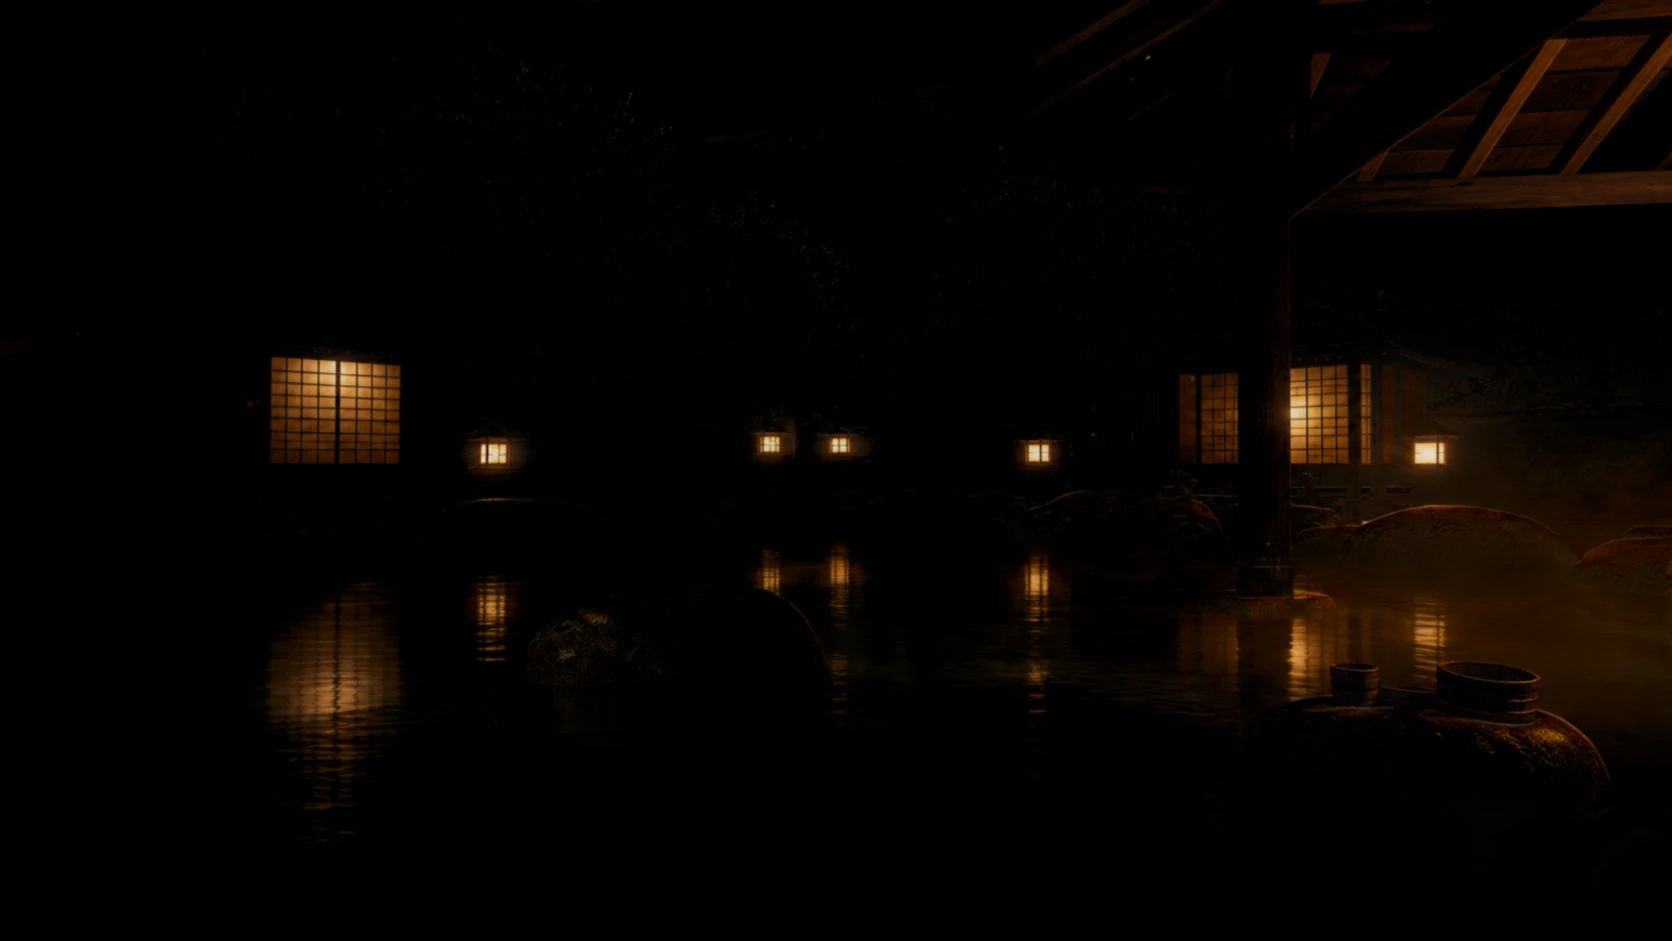
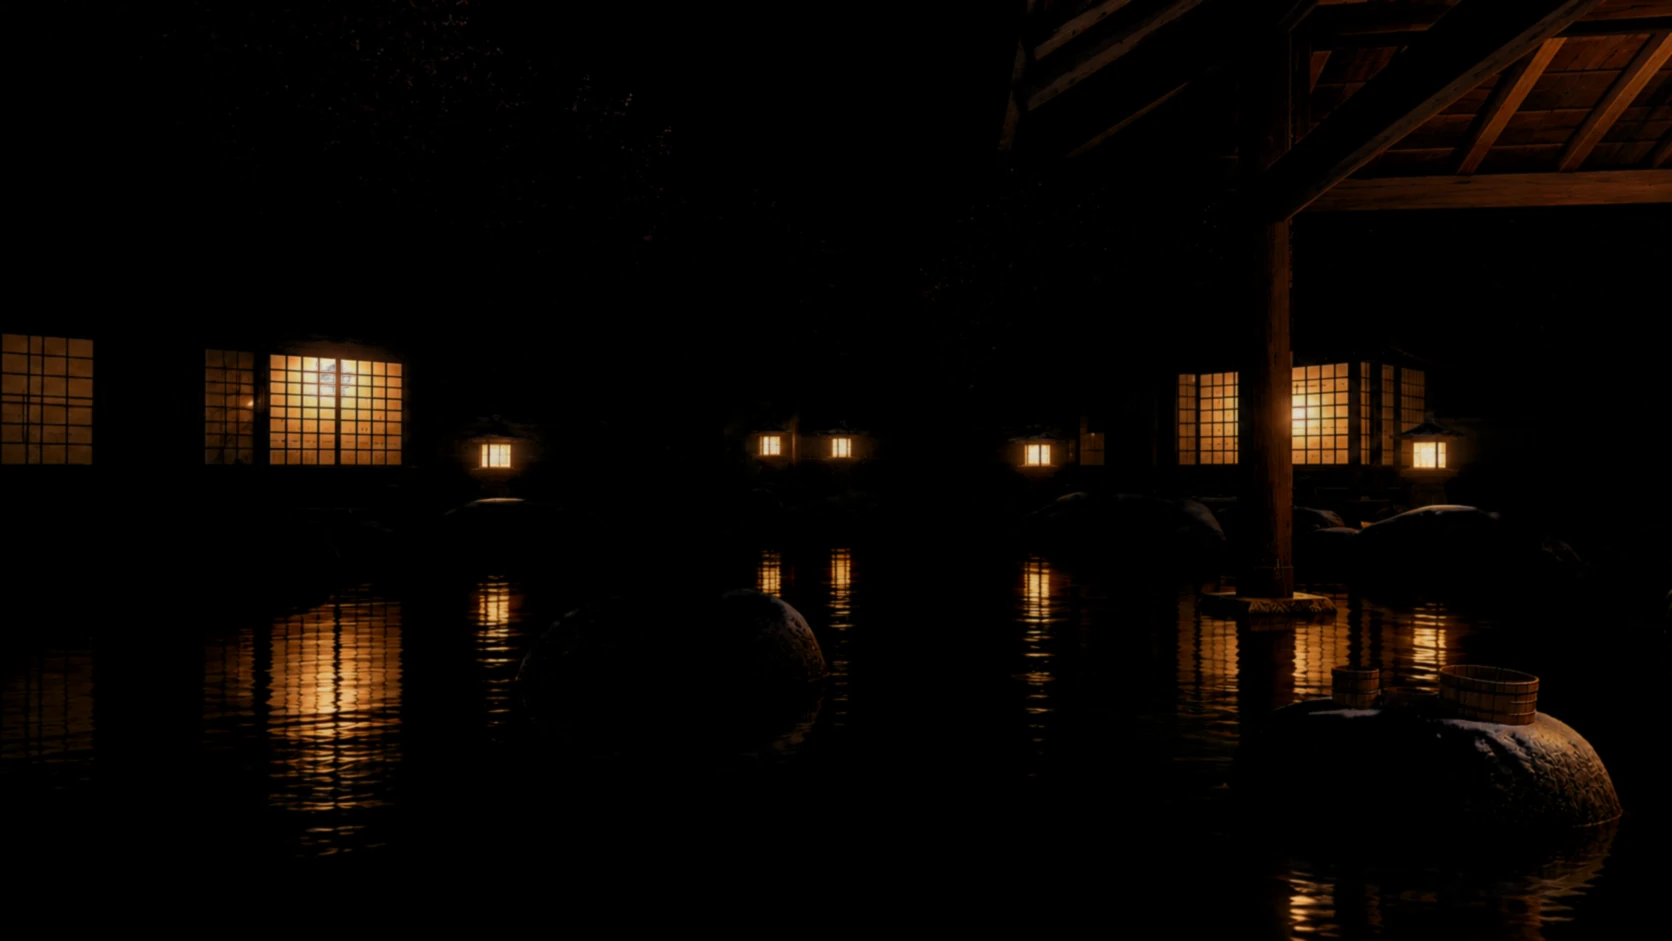
v2 cont 16

diff --git a/app/components/pages/Tracker/theme-scene/onsen.ts b/app/components/pages/Tracker/theme-scene/onsen.ts
@@ -3,20 +3,23 @@ import { shaderScene } from './scene';
 import type { SceneMaker } from './scene';
 
 // Onsen: an open-air hot spring on a winter night, painted (public/themes/onsen): snowy rocks round the pool, cherry
-// trees and a mountain behind, stone lanterns and shōji windows lit along the far side. The picture holds still; over
-// it the lights breathe and flicker each on its own (the picture lit, less a share of its light: light.webp, the lit
-// picture less its unlit twin), the water stirs their reflections, steam drifts up off it and snow falls through
+// trees and a mountain behind, stone lanterns and shōji windows lit along the far side. The painting holds still; the
+// scene lives in it: the pool's surface moves in perspective, passing between three states of its water and bending
+// what it reflects, each snowflake that lands on it leaving a ring; steam rises off it in sheets, near and far, lit by
+// the lanterns where it passes them; snow falls through all of it at every depth, behind the gazebo's pillar and the
+// rocks as well as in front; one wind moves the snow and the steam together; the lights flicker each on its own
 //
-// u_picture0: the picture, lit; u_picture1: its light alone; u_picture2: where the water is (water.png)
+// u_picture0 the painting, its air clear; u_picture1, 2 the same pool in two other states of ripple; u_picture3 the
+// lights alone (the lit painting less its unlit twin); u_picture4 maps: R where the water is, G depth (1 nearest),
+// B the lights' glow, wide and soft; u_picture5 steam on black, its sheet rising from the bottom
 const FRAGMENT = `
 float hash (vec2 p) { return fract(sin(dot(p, vec2(127.1, 311.7))) * 43758.5453); }
 float noise (vec2 p) {
   vec2 i = floor(p); vec2 f = fract(p); f = f * f * (3.0 - 2.0 * f);
   return mix(mix(hash(i), hash(i + vec2(1.0, 0.0)), f.x), mix(hash(i + vec2(0.0, 1.0)), hash(i + vec2(1.0, 1.0)), f.x), f.y);
 }
-float fbm (vec2 p) { float v = 0.0; float a = 0.5; for (int i = 0; i < 4; i++) { v += a * noise(p); p *= 2.03; a *= 0.5; } return v; }
 
-// one light across the picture (centred at cx, as wide as w): how bright it burns now, a little under full as a flame
+// one light across the painting (centred at cx, as wide as w): how bright it burns now, a little under full as a flame
 // gutters (by up to amp), weighted by how near x is to it
 void source (float x, float cx, float w, float amp, float speed, float seed, float t, inout vec2 acc) {
   float k = exp(-pow((x - cx) / w, 2.0));
@@ -38,22 +41,69 @@ float flicker (float x, float t) {
   return acc.y > 1e-4 ? acc.x / acc.y : 1.0;
 }
 
-// snow: three layers of flakes, the far ones small, slow and faint, the near larger; each drifting as it falls
-float snow (vec2 px, float h, float t) {
+// the pool's surface on its own plane (P: across and away, in the water's own units): long swells crossing, a finer
+// chop over them, all drifting with the wind
+float swell (vec2 p, float t, float wind) {
+  return noise(p * vec2(0.9, 1.6) + vec2(t * 0.12 + wind * t * 0.05, -t * 0.32)) * 0.55
+    + noise(p * vec2(2.1, 2.6) + vec2(-t * 0.22, t * 0.18)) * 0.3
+    + noise(p * vec2(4.7, 5.3) + vec2(t * 0.45, -t * 0.4)) * 0.15;
+}
+
+// where a snowflake landed: a ring spreading from it and dying away, its slope (on P) to bend the surface by
+vec2 rings (vec2 p, float t) {
+  vec2 cell = floor(p);
+  float r = hash(cell + 5.0);
+  float period = 3.0 + 7.0 * r;
+  float age = fract(t / period + r * 7.0) * period;
+  vec2 at = 0.3 + 0.4 * vec2(hash(cell + 1.0), hash(cell + 2.0));
+  vec2 d = p - cell - at;
+  float dist = length(d) + 1e-4;
+  float w = (dist - age * 0.16) * 38.0;
+  float env = exp(-age * 1.3) * smoothstep(0.45, 0.25, dist);
+  return d / dist * sin(clamp(w, -9.42, 9.42)) * exp(-w * w / 24.0) * env;
+}
+
+// a sheet of steam rising from bottom (on the painting, 0 top to 1 bottom) up to height, stood at depth: shown only
+// in front of what's farther off than it. Its wisps rise and curl (the sheet's own shapes pulled upward through a
+// rising noise) and drift with the wind; its texture mirrored end to end, so it repeats with no seam
+float steamSheet (vec2 iuv, float bottom, float height, float across, float seed, float t, float wind, float depth, float at) {
+  float y = (bottom - iuv.y) / height;
+  if (y < -0.05 || y > 1.0) {
+    return 0.0;
+  }
+  vec2 q = vec2(iuv.x * across + seed + t * (0.006 + 0.02 * wind), y);
+  vec2 curl = vec2(noise(q * vec2(3.0, 2.5) + vec2(seed, -t * 0.22)), noise(q * vec2(2.5, 3.0) + vec2(-seed, -t * 0.18))) - 0.5;
+  q += curl * vec2(0.12, 0.1);
+  float x = 1.0 - abs(fract(q.x * 0.5) * 2.0 - 1.0);
+  float s = texture2D(u_picture5, vec2(x, clamp(q.y, 0.0, 1.0))).r;
+  // breathing: the sheet thickens and thins along its length, slowly
+  s *= 0.65 + 0.7 * noise(vec2(iuv.x * 3.0 + seed - t * 0.03, t * 0.05 + seed));
+  return s * smoothstep(-0.05, 0.12, y) * smoothstep(at + 0.06, at - 0.02, depth);
+}
+
+// snow: three layers of flakes, far ones small, slow and faint, near ones larger; each at its own depth, so hidden
+// behind whatever stands nearer (the pillar, the rocks, the pool's own surface where it's fallen in). All drift with
+// the wind
+float snow (vec2 px, float h, float t, float wind, float depth) {
   float a = 0.0;
   for (int l = 0; l < 3; l++) {
     float fl = float(l) / 2.0;
+    float at = mix(0.3, 0.97, fl);
+    if (depth > at + 0.02) {
+      continue;
+    }
     float cells = mix(22.0, 8.0, fl);
     vec2 p = px / h * cells;
-    p.y += t * mix(0.022, 0.06, fl) * cells;
+    float fall = t * mix(0.022, 0.06, fl) * cells;
+    p.y += fall;
+    p.x -= wind * fall * 0.6;
     p.x += sin(t * 0.25 + p.y * 0.35 + fl * 4.0) * 0.35;
     vec2 c = floor(p);
     float r = hash(c + fl * 17.0);
     if (r < mix(0.5, 0.32, fl)) {
-      vec2 at = vec2(hash(c + 3.1), hash(c + 7.7)) * 0.8 + 0.1;
-      at.x += sin(t * (0.4 + r) + r * 6.28) * 0.08;
-      float d = length(fract(p) - at) / cells * h;
-      // soft flakes, not points of light: each falls off from its middle
+      vec2 o = vec2(hash(c + 3.1), hash(c + 7.7)) * 0.8 + 0.1;
+      o.x += sin(t * (0.4 + r) + r * 6.28) * 0.08;
+      float d = length(fract(p) - o) / cells * h;
       float radius = mix(1.2, 3.4, fl) * u_dpr;
       a += smoothstep(radius, 0.0, d) * mix(0.4, 0.75, fl);
     }
@@ -68,42 +118,78 @@ void main () {
   }
   float t = u_time;
   vec2 uv = gl_FragCoord.xy / u_res;
-  // the same point on the picture, 0–1 from its top left
+  // the same point on the painting, 0–1 from its top left
   vec2 iuv = u_crop.xy + vec2(uv.x, 1.0 - uv.y) * u_crop.zw;
+  vec3 maps = texture2D(u_picture4, uv).rgb;
+  float water = maps.r;
+  float depth = maps.g;
+  float glow = maps.b;
+  // one wind for the snow and the steam: mostly a light breeze, now and then a slow gust
+  float wind = 0.2 + 0.8 * smoothstep(0.55, 0.9, noise(vec2(t * 0.05, 3.0)));
 
-  // the water stirring: bands across it, close together far off and wider nearer, pulling what it reflects side to
-  // side; still where rocks stand in it
-  float water = texture2D(u_picture2, uv).r;
-  float near = smoothstep(0.58, 1.0, iuv.y);
-  vec2 q = vec2(iuv.x * mix(16.0, 5.0, near), iuv.y * mix(170.0, 40.0, near) - t * 0.8);
-  float n1 = noise(q) - 0.5;
-  float n2 = noise(q * 1.9 + 3.1) - 0.5;
-  vec2 stir = vec2(n1 + 0.5 * n2, n2 * 0.25) * mix(0.0012, 0.005, near) * water;
+  // the pool: its surface on its own plane, nearer water larger, so its swells widen toward you
+  float near = smoothstep(0.57, 1.0, iuv.y);
+  vec2 stir = vec2(0.0);
+  vec2 slope = vec2(0.0);
+  if (water > 0.0) {
+    float z = 1.0 / max(iuv.y - 0.47, 0.03);
+    vec2 P = vec2((iuv.x - 0.5) * z * 1.6, z * 2.0);
+    float h0 = swell(P, t, wind);
+    slope = vec2(swell(P + vec2(0.04, 0.0), t, wind) - h0, swell(P + vec2(0.0, 0.04), t, wind) - h0) / 0.04;
+    slope += rings(P * 1.2, t) * 2.2;
+    stir = vec2(slope.x, slope.y * 0.4) * mix(0.0016, 0.0075, near) * water;
+  }
 
-  vec3 col = texture2D(u_picture0, uv + stir).rgb;
-  vec3 light = texture2D(u_picture1, uv + stir).rgb;
-  col += light * (flicker(iuv.x, t) - 1.0);
-  // and a glint now and then where it catches the light
-  col += light * water * pow(noise(q * vec2(2.0, 0.6) + t * 0.3), 6.0) * 0.6;
+  vec3 calm = texture2D(u_picture0, uv + stir).rgb;
+  vec3 col = calm;
+  if (water > 0.0) {
+    // the water passing between its states: patches of it calm, patches stirred, drifting
+    float k1 = smoothstep(0.3, 0.75, noise(iuv * vec2(4.0, 9.0) + vec2(t * 0.04, -t * 0.07)));
+    float k2 = smoothstep(0.35, 0.8, noise(iuv * vec2(5.0, 10.0) + vec2(-t * 0.05, t * 0.04) + 7.0));
+    vec3 w = mix(calm, texture2D(u_picture1, uv + stir * 1.3).rgb, k1);
+    w = mix(w, texture2D(u_picture2, uv + stir * 1.3).rgb, k2 * (1.0 - 0.5 * k1));
+    col = mix(calm, w, water);
+  }
+  vec3 light = texture2D(u_picture3, uv + stir).rgb;
+  float flame = flicker(iuv.x, t);
+  col += light * (flame - 1.0);
+  // the surface catching the lanterns where it tilts toward you
+  vec3 warm = vec3(1.0, 0.72, 0.42);
+  col += warm * glow * water * pow(clamp(0.5 - slope.y * 0.6, 0.0, 1.0), 6.0) * 0.35 * flame;
 
-  // steam rising off the pool, thickest along the far shore, warmed where the lanterns light it
-  vec2 sp = vec2(iuv.x * 4.0 + t * 0.012, iuv.y * 7.0 + t * 0.06);
-  sp += vec2(noise(sp * 0.6 + t * 0.05), noise(sp * 0.6 - t * 0.04)) * 0.8;
-  float band = smoothstep(0.46, 0.6, iuv.y) * (1.0 - 0.6 * smoothstep(0.64, 1.0, iuv.y));
-  float steam = smoothstep(0.42, 0.85, fbm(sp)) * band * 0.2;
-  col = mix(col, vec3(0.5, 0.56, 0.66) + light * 1.4, steam);
+  // the sky: the clouds' moonlit edges brightening and dimming as they pass
+  float sky = (1.0 - smoothstep(0.02, 0.08, depth)) * (1.0 - smoothstep(0.3, 0.45, iuv.y));
+  if (sky > 0.0) {
+    float c = noise(iuv * vec2(3.0, 7.0) + vec2(t * 0.012, 0.0)) * 0.6 + noise(iuv * vec2(7.0, 14.0) + vec2(t * 0.02, 1.0)) * 0.4;
+    col *= mix(1.0, 0.8 + 0.4 * c, sky);
+  }
 
-  // and the snow over it all, lit warm near a light
-  float s = snow(gl_FragCoord.xy, u_res.y, t);
-  col = mix(col, vec3(0.86, 0.9, 0.98) + light * 1.2, s);
+  // steam: a sheet off the far water, one mid-pool and one close by; the far behind the pillar and the near rocks
+  vec3 vapour = vec3(0.42, 0.47, 0.56) + warm * glow * 0.9 + light * 0.6;
+  float far = steamSheet(iuv, 0.66, 0.3, 1.3, 0.0, t, wind, depth, 0.62);
+  float mid = steamSheet(iuv, 0.9, 0.38, 0.95, 3.7, t, wind, depth, 0.8);
+  col = mix(col, vapour, clamp(far * 0.85 + mid * 0.6, 0.0, 0.85));
+
+  // the snow, among it all, lit warm near a light
+  float s = snow(gl_FragCoord.xy, u_res.y, t, wind, depth);
+  col = mix(col, vec3(0.82, 0.87, 0.96) + light * 1.2 + warm * glow * 0.5, s);
+
+  // and the nearest steam, thin, in front of everything
+  float close = steamSheet(iuv, 1.12, 0.45, 0.7, 8.1, t, wind, depth, 1.1);
+  col = mix(col, vapour, close * 0.4);
 
   gl_FragColor = vec4(col, 1.0);
 }
 `;
 
+// the top of the painting kept in view as a wide window crops it, for its sky and mountain over the boxes
+const ANCHOR: [number, number] = [0.5, 0.3];
+
 export const onsenScene: SceneMaker = (canvas) => shaderScene(canvas, FRAGMENT, undefined, [
-  // the lanterns and the near water kept in view as a wide window crops its top and bottom
-  { src: '/themes/onsen/scene.webp', anchor: [0.5, 0.62] },
-  { src: '/themes/onsen/light.webp', anchor: [0.5, 0.62] },
-  { src: '/themes/onsen/water.png', anchor: [0.5, 0.62] },
+  { src: '/themes/onsen/scene.webp', anchor: ANCHOR },
+  { src: '/themes/onsen/ripple-1.webp', anchor: ANCHOR },
+  { src: '/themes/onsen/ripple-2.webp', anchor: ANCHOR },
+  { src: '/themes/onsen/light.webp', anchor: ANCHOR },
+  { src: '/themes/onsen/maps.webp', anchor: ANCHOR },
+  { src: '/themes/onsen/steam.webp', anchor: ANCHOR },
 ]);

diff --git a/app/styles/themes2/_onsen.scss b/app/styles/themes2/_onsen.scss
@@ -5,9 +5,11 @@
 // lanterns light the steam (the lanterns' own amber at home, a red lantern's out in a game, gold in Champions, the
 // moon's blue in HOME); a finished box glowing warm round its edge
 :root[data-theme='onsen'] {
-  --w-nav: rgb(8 10 20 / 50%);
+  // the bar and the header open onto the sky, the painting's top seen through them (a trial: their text's contrast
+  // rests on the night behind it and a shadow)
+  --w-nav: transparent;
   --w-hairline: linear-gradient(90deg, transparent, rgb(255 200 140 / 40%) 40%, transparent);
-  --w-header: linear-gradient(rgb(10 13 24 / 62%), rgb(10 13 24 / 42%));
+  --w-header: transparent;
   --w-slot: rgb(8 10 20 / 55%);
   --w-edge: rgb(200 215 240 / 18%);
   --w-fill: linear-gradient(rgb(255 255 255 / 22%), transparent 50%), linear-gradient(90deg, #4a5a7a, #c9a27a 60%, #ffd9a0);
@@ -26,6 +28,12 @@
   --w-temporary-stripe: rgb(255 140 100 / 8%);
   --w-complete: 0 0 0 1px rgb(255 214 170 / 55%), 0 0 36px rgb(255 180 110 / 26%), 0 28px 50px -18px rgb(0 0 0 / 70%);
   --line-solid: var(--w-line);
+
+  nav,
+  .dex-search-bar {
+    backdrop-filter: none;
+    text-shadow: 0 1px 3px rgb(0 0 0 / 80%);
+  }
 
   .seal-material {
     --glow: rgb(255 190 120);
